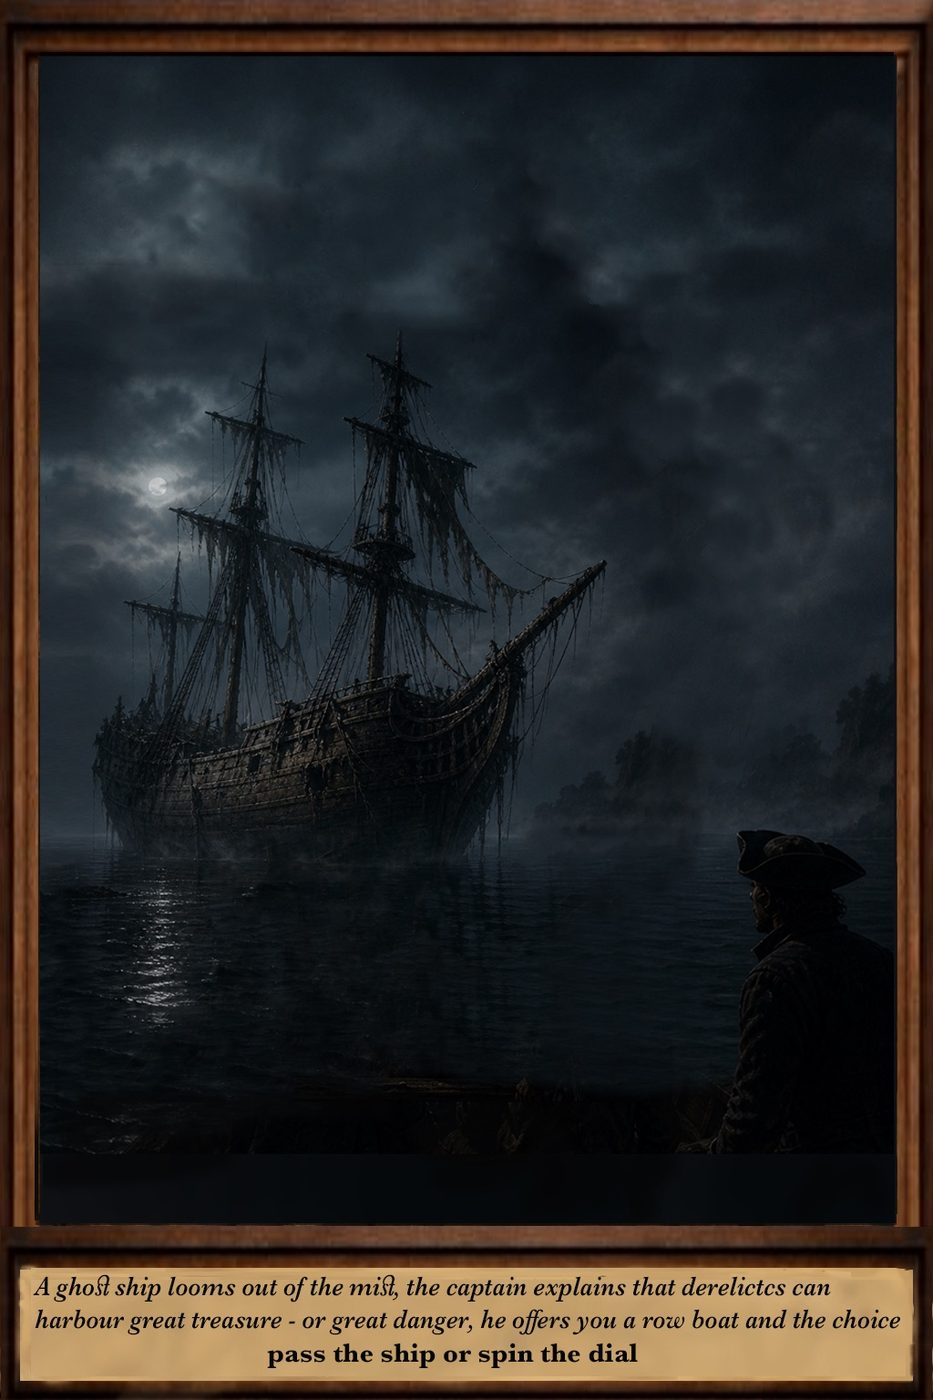
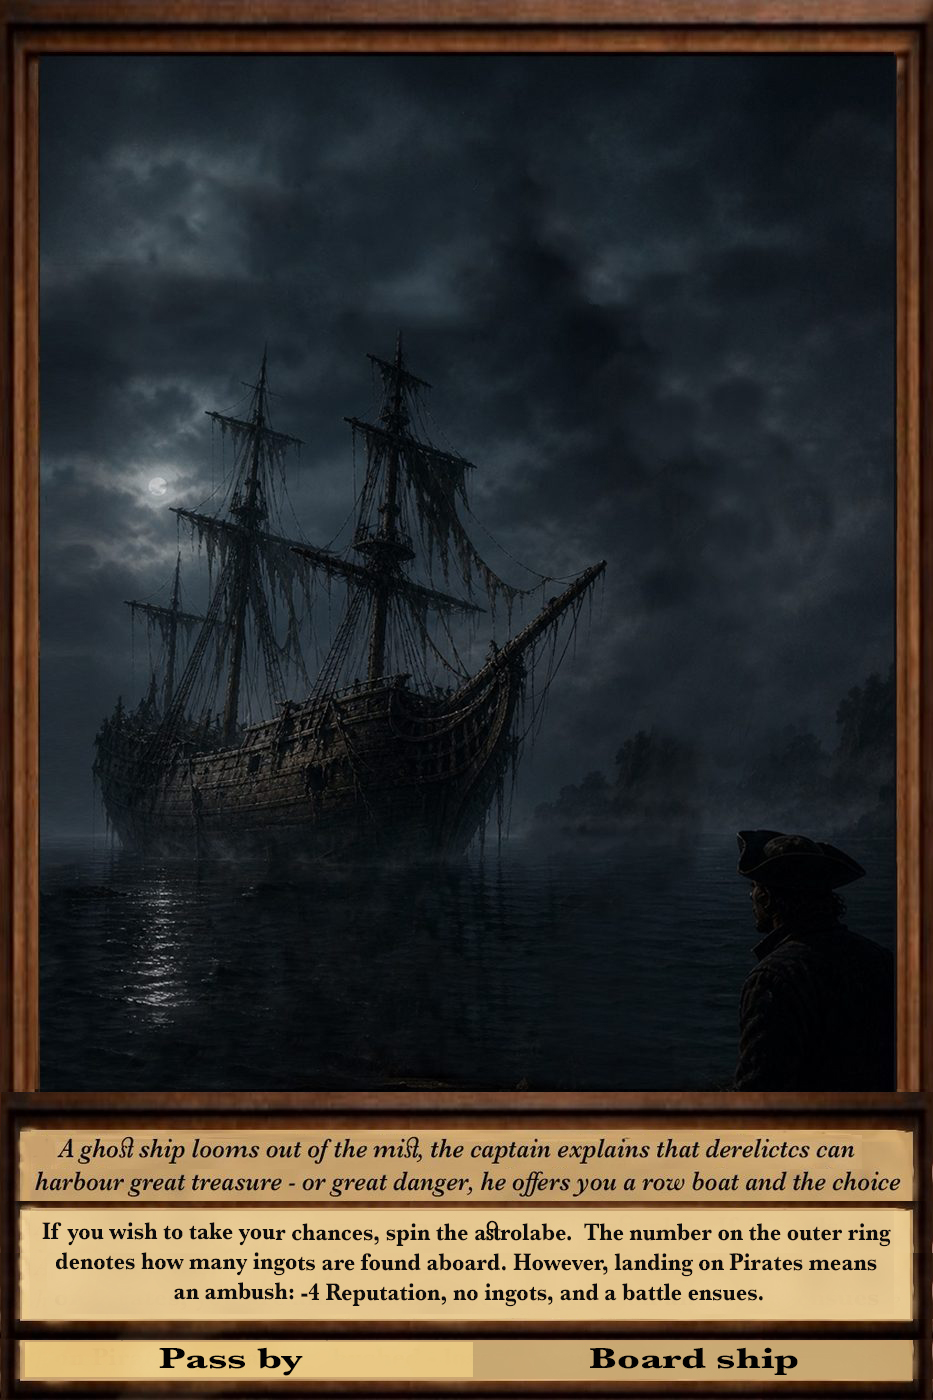
some

Changed region(s): [[0.0, 0.7679, 1.0, 1.0]]

diff --git a/index.html b/index.html
@@ -498,8 +498,14 @@ input, textarea { -webkit-user-select: text; user-select: text; }  /* keep any t
   justify-content: center;
 }
 #held-card-detail.open { display: flex; }
-#held-card-detail img {
-  width: min(500px, 86vw);   /* matches #card-display width exactly */
+#held-detail-wrap {
+  position: relative;
+  width: min(500px, 86vw);
+  max-height: 92vh;
+}
+#held-detail-img {
+  width: 100%;
+  display: block;
   max-height: 92vh;
   object-fit: contain;
   border-radius: 4px;
@@ -859,6 +865,33 @@ input, textarea { -webkit-user-select: text; user-select: text; }  /* keep any t
   display: block;
   border-radius: 4px 4px 0 0;
   box-shadow: 0 8px 40px rgba(0,0,0,0.95);
+}
+
+/* Pulsing highlight for singular-masterwork cards that need a companion item —
+   drawn as absolutely-positioned boxes over the baked-in card art itself, since
+   the badge and price band are part of the flat image, not separate elements.
+   Positioned as percentages of the card's own box so it works across both the
+   just-drawn view (#card-display) and the later held-card review (#held-card-detail). */
+.singular-pulse-badge, .singular-pulse-price {
+  position: absolute;
+  display: none;
+  pointer-events: none;
+  border-radius: 6px;
+  box-shadow: 0 0 0 2px rgba(232,190,110,0.9), 0 0 18px 6px rgba(232,190,110,0.75);
+  animation: singularPulseGlow 1.8s ease-in-out infinite;
+}
+.singular-pulse-badge.show, .singular-pulse-price.show { display: block; }
+.singular-pulse-badge {
+  right: calc(2% - 10px); top: calc(82% + 10px);
+  width: 10%; height: 6.2%;
+}
+.singular-pulse-price {
+  right: 2%; bottom: 1%;
+  width: 200px; height: 20px;
+}
+@keyframes singularPulseGlow {
+  0%, 100% { box-shadow: 0 0 0 2px rgba(232,190,110,0.55), 0 0 10px 3px rgba(232,190,110,0.4); }
+  50%      { box-shadow: 0 0 0 3px rgba(232,190,110,1),    0 0 26px 9px rgba(232,190,110,0.9); }
 }
 
 #card-pox-popup {
@@ -2804,13 +2837,19 @@ body.solo-mode #ast-bay-p1 { display: none !important; }  /* P1's bay is the RIG
 
 <!-- ══ HELD CARD DETAIL — click to expand ══ -->
 <div id="held-card-detail" onclick="closeHeldDetail()">
-  <img id="held-detail-img" src="" alt="Card">
+  <div id="held-detail-wrap">
+    <img id="held-detail-img" src="" alt="Card">
+    <div class="singular-pulse-badge" id="held-pulse-badge"></div>
+    <div class="singular-pulse-price" id="held-pulse-price"></div>
+  </div>
 </div>
 
 <!-- ══ CARD OVERLAY ══ -->
 <div id="card-overlay">
   <div id="card-display">
     <img id="card-img" src="" alt="Card">
+    <div class="singular-pulse-badge" id="card-pulse-badge"></div>
+    <div class="singular-pulse-price" id="card-pulse-price"></div>
     <!-- Pox decision — only shown for pox card -->
     <!-- Ghost ship choice — Board or Pass By -->
     <div id="ghost-ship-popup">
@@ -8052,12 +8091,27 @@ function returnRatnapuraSampan() {
 }
 
 function buyTourmaline() {
+  // Guard against a rapid double-click firing this twice before the first
+  // click's DOM/state updates (and the disabled op-card check) have settled.
+  if (buyTourmaline._busy) return;
+  buyTourmaline._busy = true;
+  try {
+    _buyTourmalineInner();
+  } finally {
+    buyTourmaline._busy = false;
+  }
+}
+function _buyTourmalineInner() {
   const p = cp();
   const oi = (p.heldCards||[]).findIndex(hc => hc.img && hc.img.includes('tourmaline'));
   if (oi < 0) { setStatus('You need a Rainbow Tourmaline op card to purchase here.'); return; }
-  if ((p.items||[]).length >= 6) { setStatus(`${p.name}: Inventory full.`); return; }
   if (tourmalineStock <= 0) { setStatus('The cluster is already claimed — another merchant got there first.'); return; }
-  // Requires a Quadrant — the miner wants a fine navigational instrument in trade
+  // Requires a Quadrant — the miner wants a fine navigational instrument in trade.
+  // No separate inventory-full check here: since this purchase always consumes a
+  // Quadrant, it's a net-zero swap — the same reasoning Dragon Vase and Red Coral
+  // already correctly use. The old check here fired before this consumption was
+  // accounted for, wrongly blocking the purchase at a full inventory even when it
+  // wouldn't actually grow the hold at all.
   const quadrantIdx = (p.items || []).findIndex(gi => (gi.id||'').toLowerCase().startsWith('quadrant'));
   if (quadrantIdx < 0) { setStatus('The miner wants a fine Quadrant in trade first — bring him one.'); return; }
   if (!payPrice(p, 12, 'ingots')) { log(`${p.name}: Need 12 ingots for the tourmaline!`); return; }
@@ -9774,6 +9828,9 @@ function renderHeldCards(playerIdx) {
 function showHeldDetail(imgSrc) {
   document.getElementById('held-detail-img').src = imgSrc;
   document.getElementById('held-card-detail').classList.add('open');
+  const isSingularCompanion = !!(_singularInfoFor({ img: imgSrc })?.reqItem);
+  document.getElementById('held-pulse-badge').classList.toggle('show', isSingularCompanion);
+  document.getElementById('held-pulse-price').classList.toggle('show', isSingularCompanion);
 }
 function closeHeldDetail() {
   document.getElementById('held-card-detail').classList.remove('open');
@@ -9860,7 +9917,7 @@ const SINGULAR_ITEMS = [
   { match: c => c.img && c.img.includes('op-motherofpearlcasket'), stock: () => (ITEM_POOLS['cambay_casket'] ? ITEM_POOLS['cambay_casket'].length : 0), label: 'Mother-of-Pearl Casket', reqItem: 'shellnautpeeled' },
   { match: c => c.img && (c.img.includes('coral_copy') || c.dest === 'Goto Islands'), stock: () => redcoralStock, label: 'Red Precious Coral', reqItem: 'telescope' },
   { match: c => c.img && c.img.includes('op-tourmaline'), stock: () => tourmalineStock, label: 'Rainbow Tourmaline', reqItem: 'quadrant' },
-  { match: c => c.img && c.img.includes('puzzleball.jpeg'), stock: () => (ITEM_POOLS['whitecloud_jadeball'] ? ITEM_POOLS['whitecloud_jadeball'].length : 0), label: 'Jade Puzzle Ball' },
+  { match: c => c.img && c.img.includes('puzzleball.jpeg'), stock: () => (ITEM_POOLS['whitecloud_jadeball'] ? ITEM_POOLS['whitecloud_jadeball'].length : 0), label: 'Jade Puzzle Ball', reqItem: 'polyhedra' },
   { match: c => c.img && c.img.includes('op-braincoral'), stock: () => (ITEM_POOLS['falsebay_coral'] ? ITEM_POOLS['falsebay_coral'].length : 0), label: 'Brain Coral', reqItem: 'pocketwatch' },
 ];
 function _singularInfoFor(card) { return SINGULAR_ITEMS.find(s => s.match(card)) || null; }
@@ -10283,6 +10340,9 @@ function drawCard(type) {
 function showCard(imgSrc, buyCard, isPox, isGhostShip, isCaptainsOffer, opts) {
   const overlay = document.getElementById('card-overlay');
   document.getElementById('card-img').src = imgSrc;
+  const isSingularCompanion = !!(_singularInfoFor({ img: imgSrc })?.reqItem);
+  document.getElementById('card-pulse-badge').classList.toggle('show', isSingularCompanion);
+  document.getElementById('card-pulse-price').classList.toggle('show', isSingularCompanion);
   document.getElementById('card-buy-popup').classList.remove('visible');
   document.getElementById('card-pox-popup').classList.remove('visible');
   document.getElementById('ghost-ship-popup').classList.remove('visible');
